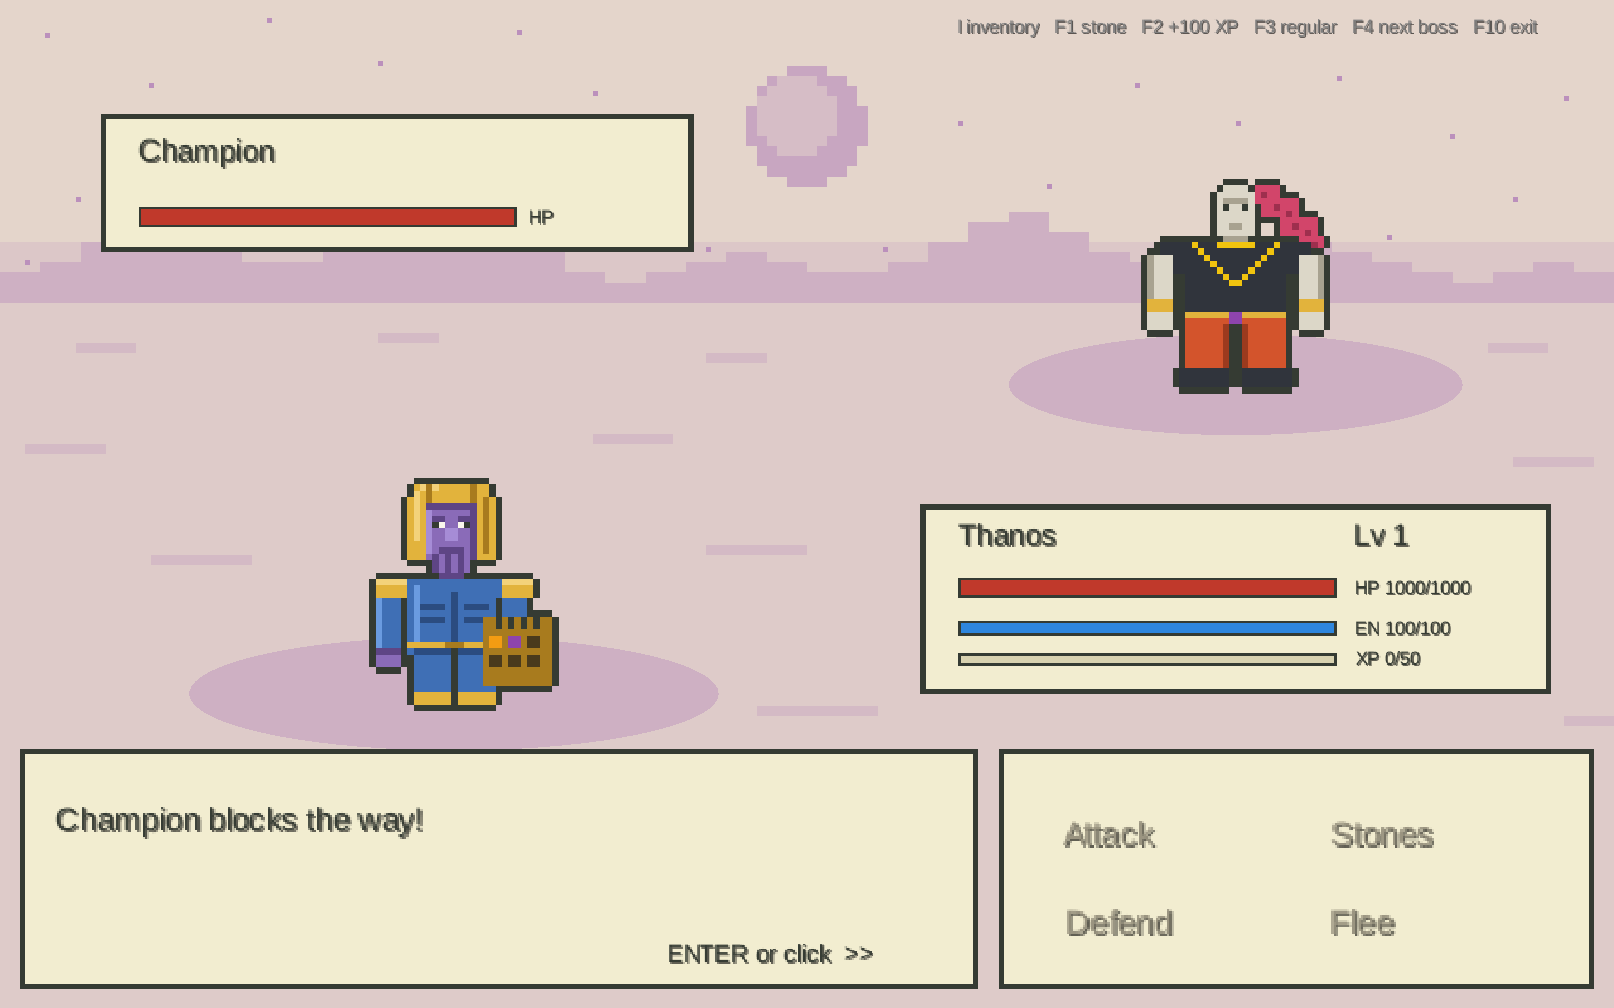
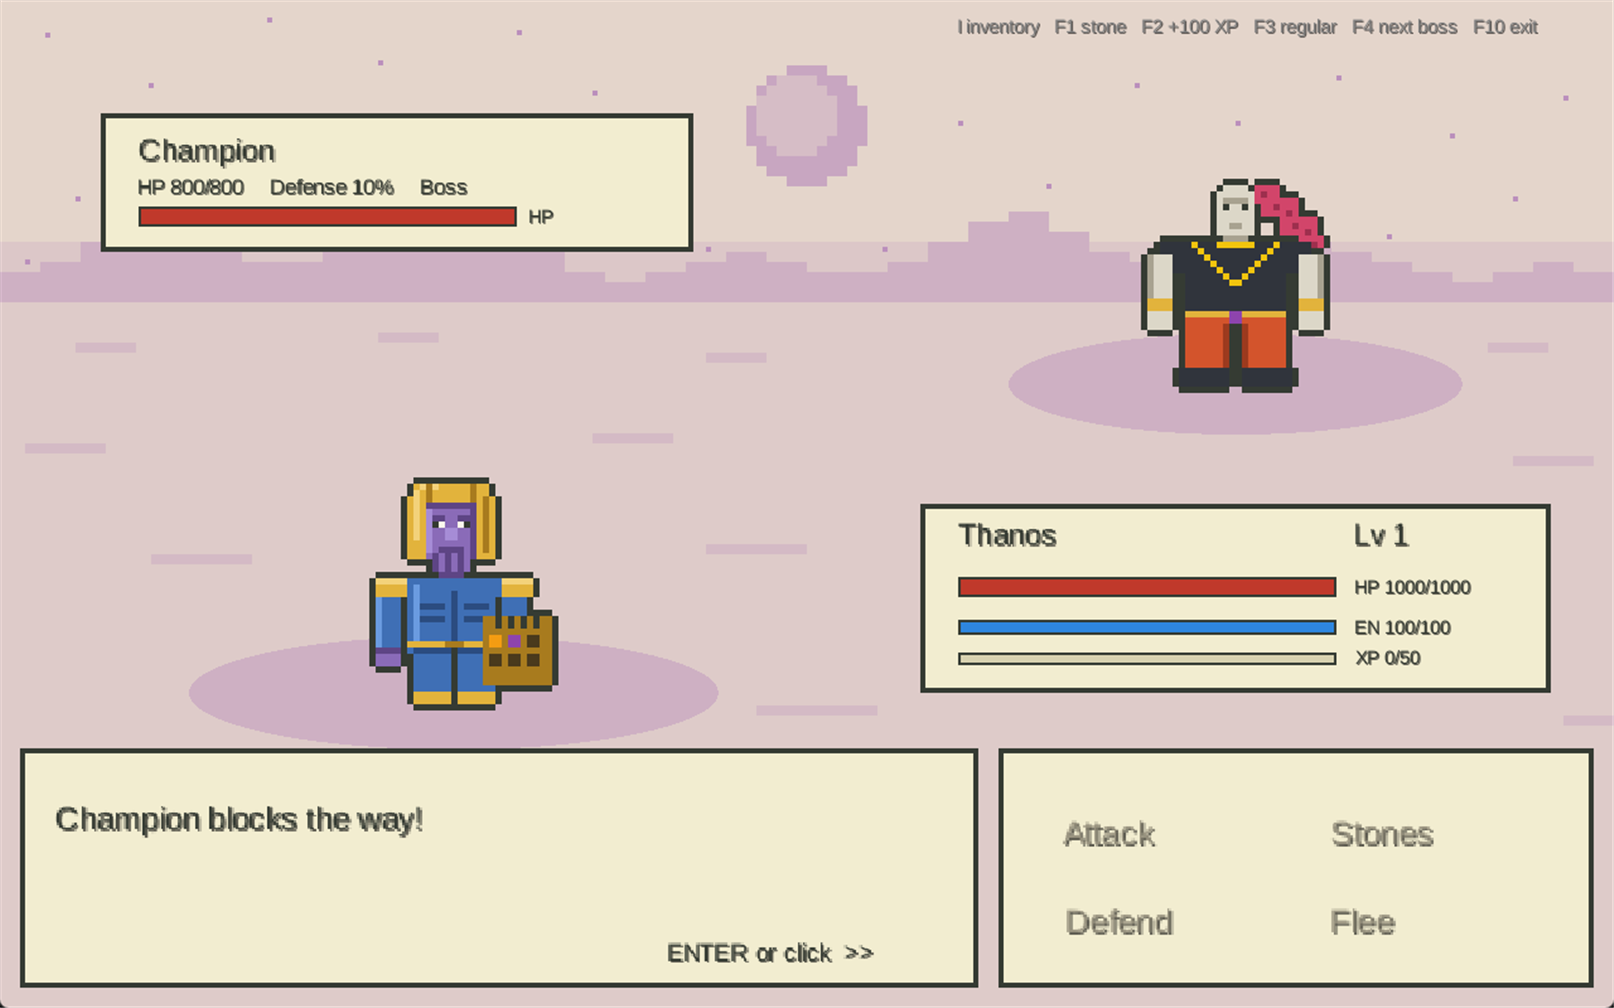
docs: retake report screenshots for the new battle menu and describe Foresight

diff --git a/participant3/docs/report/participant3-report.md b/participant3/docs/report/participant3-report.md
@@ -217,6 +217,9 @@ new Ability("Time Loop", TIME, 35, "Rewind, and the enemy's next hit is 25% weak
 - A new stone effect or ability is one small class or one line in `AbilityBook`. No existing class changes.
 - Effects combine freely. The test `AttackDecoratorTest.stonesStackWithoutAClassPerCombination` checks this.
 - `HitResolver` does not care how many layers an attack has; it only asks the final object.
+- The same questions describe enemy attacks. With the Mind Stone the battle shows *Foresight*: `TurnBattle.nextEnemyAttack`
+  returns the blow the enemy is about to make, and `EnemyIntent` reads its name, damage and effects (stun, weakening,
+  ignores defense, lifesteal) straight from the decorated `Attack`.
 
 ## 3. How the two patterns work together
 
@@ -245,15 +248,15 @@ from. The standalone battle demo of this module (`run-battle-demo.bat`) uses sim
 
 ## 4. Screenshots
 
-Battle with an Elder (the backdrop is tinted by the world's stone):
+Battle with the Champion (the backdrop is tinted by the world's stone; the enemy box shows HP, defense and boss status):
 
 ![Battle](img/battle.png)
 
-Choosing an ability; the description and energy cost come from the decorated ability:
+Choosing an ability in the 2x2 menu (a small gem marks stone skills); the description and energy cost come from the decorated ability:
 
 ![Ability menu](img/ability-menu.png)
 
-The result of Energy Blast: 133 damage instead of 59 for a plain punch:
+The result of Energy Blast: 133 damage instead of 59 for a plain punch; the Power Stone passive highlights the number ("Might +10%"):
 
 ![Ability result](img/ability-result.png)
 
